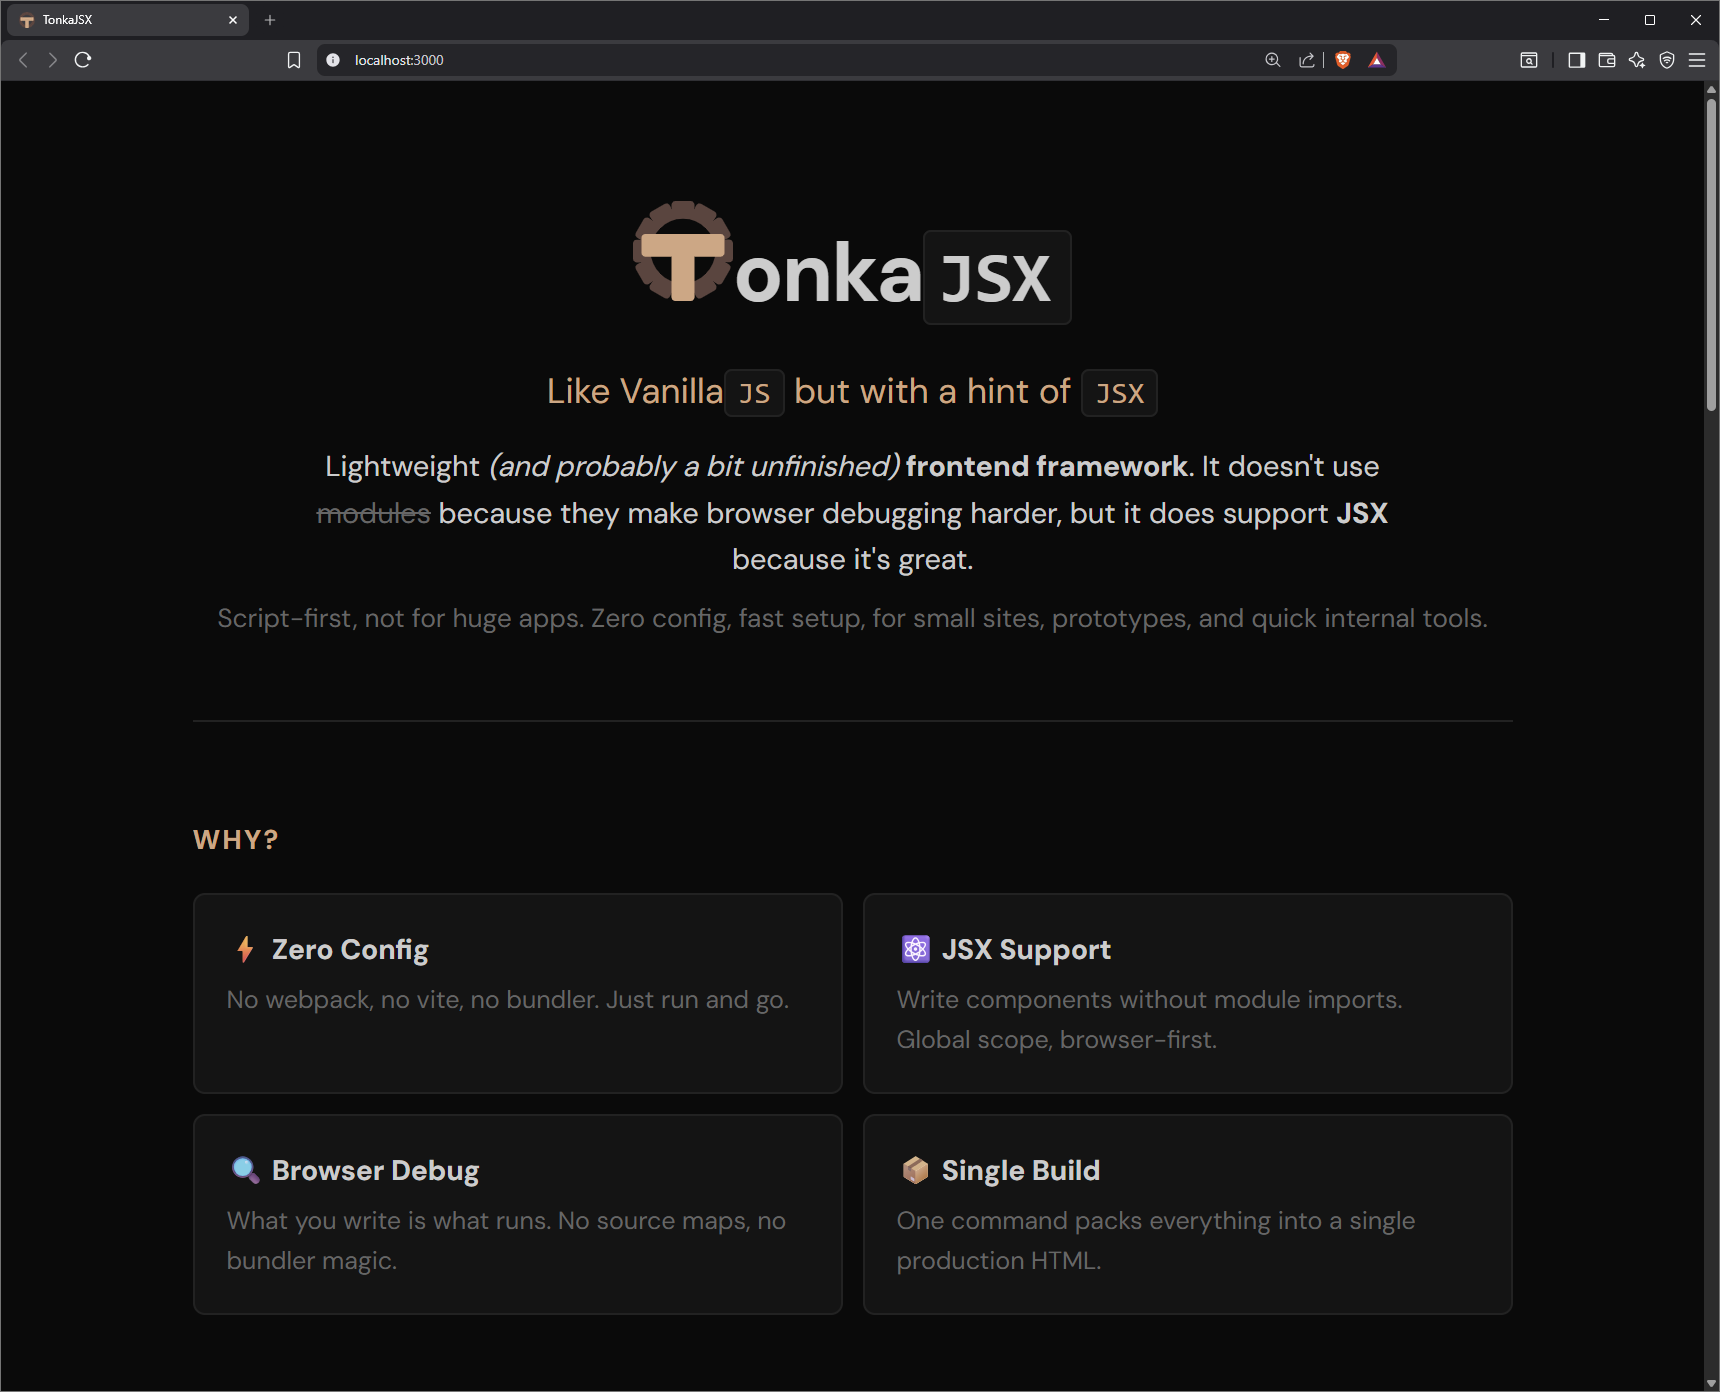
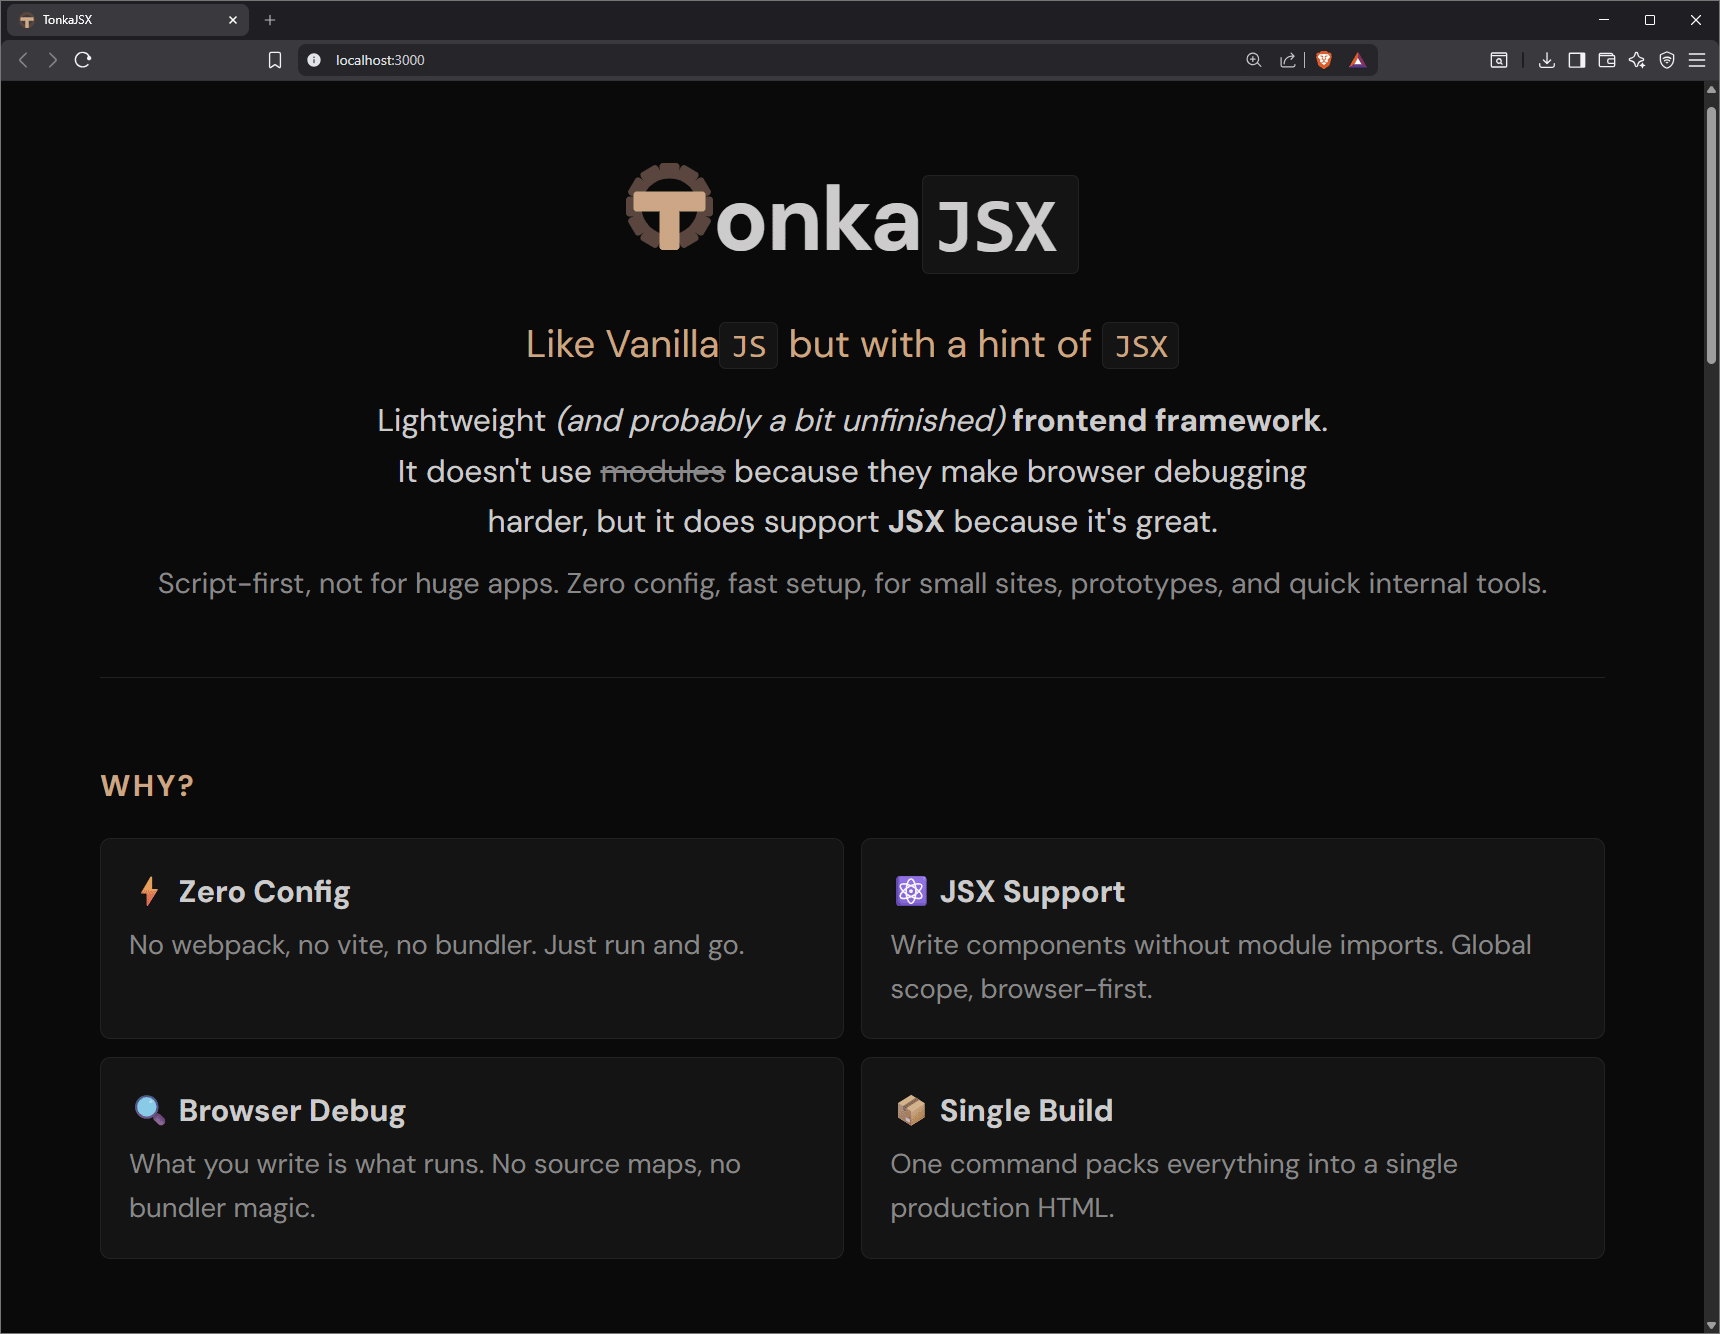
vars app.ini

diff --git a/build.js b/build.js
@@ -2,7 +2,7 @@ import fs from "fs"
 import path from "path"
 import http from "http"
 import https from "https"
-import { PATH, readFile, fileList, COLOR } from "./utils.js"
+import { PATH, readFile, fileList, loadVars, replaceVars, COLOR } from "./utils.js"
 
 const ARGS = new Set(process.argv.slice(2))
 const INLINE_REMOTE = ARGS.has("--inline-remote") || ARGS.has("-i")
@@ -257,11 +257,14 @@ async function fetchMany(urls, label) {
 async function build()
 {
   Log.head(`Build ${COLOR.gray}${PATH}${COLOR.reset}`)
+  const vars = loadVars("build")
+  if(Object.keys(vars).length)
+    Log.ok(`Vars:${Object.keys(vars).length} (${Object.keys(vars).join(", ")})`)
   if(INLINE_REMOTE) Log.warn("--inline-remote enabled")
-  const indexPath = path.join(PATH, "main.html")
-  if(!fs.existsSync(indexPath)) throw new Error("main.html not found in PATH")
+  const indexPath = path.join(PATH, "app.html")
+  if(!fs.existsSync(indexPath)) throw new Error("app.html not found in PATH")
   let html = readFile(indexPath)
-  if(html == null) throw new Error("main.html read failed")
+  if(html == null) throw new Error("app.html read failed")
   const r = removeBabelTags(html)
   html = r.html
   if(r.removed.length) {
@@ -293,6 +296,7 @@ async function build()
   }).join("\n") : ""
   let cssBundle = [remoteCss, cssBundleLocal].filter(Boolean).join("\n")
   if(cssBundle) {
+    cssBundle = replaceVars(cssBundle, vars)
     const b0 = bytes(cssBundle)
     cssBundle = await minifyCssSmart(cssBundle)
     Log.ok(`CSS min: ${b0} → ${bytes(cssBundle)}`)
@@ -344,10 +348,11 @@ async function build()
   }).join("\n;\n") : ""
   const rawJS = [String(remoteJs || "").trimEnd(), localJS].filter(Boolean).join("\n;\n")
   let jsBundle = ""
-  if(rawJS){
+  if(rawJS) {
+    const src = replaceVars(rawJS, vars)
     const { transformSync, jsxPlugin } = await loadBabel()
     Log.ok("Babel: JSX → JS")
-    const out = transformSync(rawJS, { babelrc: false, configFile: false, sourceType: "unambiguous", comments: false, plugins: [[jsxPlugin, { pragma: "JSX.createElement", pragmaFrag: "JSX.createFragment", throwIfNamespace: false }]] })
+    const out = transformSync(src, { babelrc: false, configFile: false, sourceType: "unambiguous", comments: false, plugins: [[jsxPlugin, { pragma: "JSX.createElement", pragmaFrag: "JSX.createFragment", throwIfNamespace: false }]] })
     jsBundle = out?.code || ""
     if(jsBundle){
       const b0 = bytes(jsBundle)
@@ -373,6 +378,7 @@ async function build()
     html = next
     Log.ok("Injected <script> JS")
   }
+  html = replaceVars(html, vars)
   const outPath = path.join(PATH, "index.html")
   fs.writeFileSync(outPath, html, "utf8")
   Log.ok(`Wrote ${COLOR.gray}${outPath}${COLOR.reset}`)

diff --git a/demo/scripts/Usage.jsx b/demo/scripts/Usage.jsx
@@ -1,17 +1,33 @@
-const Usage = () => (
-  <Section title="Usage">
-    <p class="subdesc">Start demo/project with <code>tonka serve</code> and build deploy version with <code>tonka build</code></p>
-    <div class="code-block">
-      <code>$ tonka serve [&lt;project&gt;] [--port|-p &lt;port&gt;]</code>
-      <code>$ tonka build [&lt;project&gt;] [--inline-remote|-i]</code>
-    </div>
-    <ul>
-      <li>Server and build work on the chosen project. Skip the name and it picks the first one.</li>
-      <li>If built, <code>index.html</code> exists and the server serves it.</li>
-      <li>Otherwise the server uses <code>main.html</code> and injects styles from <code>styles/</code> and scripts from <code>scripts/</code>.</li>
-      <li>Script order: <code>.js</code> first, then <code>.jsx</code>. Deeper folders load before parents.</li>
-      <li>All other files are served as static assets.</li>
-      <li>Use <code>--inline-remote</code> to embed CDN resources for offline use.</li>
-    </ul>
-  </Section>
-);
+const EXAMPLE_INI = `title = TonkaJSX
+accent = #d8a57f
+[serve]
+foot = Serve
+[build]
+foot = Build
+`
+
+const Usage = () => {
+  const el = (
+    <Section title="Usage">
+      <p class="subdesc">Start demo/project with <code>tonka serve</code> and build deploy version with <code>tonka build</code></p>
+      <div class="code-block">
+        <code>$ tonka serve [&lt;project&gt;] [--port|-p &lt;port&gt;]</code>
+        <code>$ tonka build [&lt;project&gt;] [--inline-remote|-i]</code>
+      </div>
+      <ul>
+        <li>Server and build work on the chosen project. Skip the name and it picks the first one.</li>
+        <li>If the project contains <code>app.ini</code>, variables are replaced in JS/JSX/CSS/HTML using double-brace syntax. Top-level values are shared; <code>[serve]</code> and <code>[build]</code> sections override per mode.</li>
+      </ul>
+      <pre class="code-block"><code class="language-ini">{EXAMPLE_INI}</code></pre>
+      <ul>
+        <li>If built, <code>index.html</code> exists and the server serves it.</li>
+        <li>Otherwise the server uses <code>app.html</code> and injects styles from <code>styles/</code> and scripts from <code>scripts/</code>.</li>
+        <li>Script order: <code>.js</code> first, then <code>.jsx</code>. Deeper folders load before parents.</li>
+        <li>All other files are served as static assets.</li>
+        <li>Use <code>--inline-remote</code> to embed CDN resources for offline use.</li>
+      </ul>
+    </Section>
+  );
+  JSX.onMount(el, () => Prism.highlightAll());
+  return el;
+};

diff --git a/serve.js b/serve.js
@@ -1,7 +1,9 @@
 import http from "http"
 import fs from "fs"
 import path from "path"
-import { PATH, readFile, fileList, getPort, COLOR } from "./utils.js"
+import { PATH, readFile, fileList, getPort, loadVars, replaceVars, COLOR } from "./utils.js"
+
+const vars = loadVars("serve")
 
 const mimeTypes = {
   ".html": "text/html; charset=utf-8",
@@ -87,10 +89,11 @@ const injectLinks = (html) => {
 const getIndex = (res) => {
   let html = readFile("index.html");
   if(!html) {
-    html = readFile("main.html");
+    html = readFile("app.html");
     if(!html) return false;
     html = injectLinks(html)
   }
+  html = replaceVars(html, vars)
   res.writeHead(200, {
     "Content-Type": mimeTypes[".html"],
     "Cache-Control": "no-store"
@@ -98,6 +101,8 @@ const getIndex = (res) => {
   res.end(html)
   return true
 }
+
+const TEXT_EXTS = new Set([".html", ".htm", ".css", ".js", ".jsx"])
 
 const server = http.createServer((req, res) => {
   const start = Date.now()
@@ -126,12 +131,15 @@ const server = http.createServer((req, res) => {
       logRequest(req,res,start)
       return
     }
-    const ext=path.extname(filePath).toLowerCase()
+    const ext = path.extname(filePath).toLowerCase()
     let mime = mimeTypes[ext] || "application/octet-stream"
     let body = data
-    if(ext === ".jsx") {
-      const src = data.toString("utf8")
-      body = Buffer.from(`/** @jsx JSX.createElement */\n/** @jsxFrag JSX.createFragment */\n\n${src}`)
+    if(TEXT_EXTS.has(ext)) {
+      let src = data.toString("utf8")
+      src = replaceVars(src, vars)
+      if(ext === ".jsx")
+        src = `/** @jsx JSX.createElement */\n/** @jsxFrag JSX.createFragment */\n\n${src}`
+      body = Buffer.from(src)
     }
     res.writeHead(200,{
       "Content-Type": mime,

diff --git a/utils.js b/utils.js
@@ -132,3 +132,50 @@ export function fileList(dir, exts=[]) {
   for(const f of files) out.push(f)
   return out
 }
+
+const VARS_FILE = "app.ini"
+
+/**
+ * Parse app.ini — top-level vars merged with [section] overrides.
+ * Returns flat {key: string} map. Missing file → empty {}.
+ * @param {string} section "serve" | "build"
+ * @returns {Record<string, string>}
+ */
+export function loadVars(section) {
+  const raw = readFile(VARS_FILE)
+  if(!raw) return {}
+  const vars = {}
+  let current = null
+  for(const line of raw.split(/\r?\n/)) {
+    const t = line.trim()
+    if(!t || t[0] === ";" || t[0] === "#") continue
+    const sm = t.match(/^\[(.+?)\]$/)
+    if(sm) { current = sm[1].trim().toLowerCase(); continue }
+    const eq = t.indexOf("=")
+    if(eq < 0) continue
+    const k = t.slice(0, eq).trim()
+    let v = t.slice(eq + 1).trim()
+    if((v[0] === '"' && v.at(-1) === '"') || (v[0] === "'" && v.at(-1) === "'"))
+      v = v.slice(1, -1)
+    if(!k) continue
+    if(current === null || current === section?.toLowerCase())
+      vars[k] = v
+  }
+  return vars
+}
+
+/**
+ * Replace `{{key}}` placeholders in content.
+ * Undefined keys → warning + empty string.
+ * @param {string} content
+ * @param {Record<string, string>} vars
+ * @returns {string}
+ */
+export function replaceVars(content, vars) {
+  if(!content) return content
+  return content.replace(/\{\{(\w+)\}\}/g, (m, k) => {
+    if(k in vars) return vars[k]
+    console.warn(`[vars] undefined: {{${k}}}`)
+    return ""
+  })
+}

diff --git a/demo/scripts/Structure.jsx b/demo/scripts/Structure.jsx
@@ -36,12 +36,13 @@ const Structure = () => (
     <div class="tree">
       <T pre="├─" name="tonka.js" note="CLI entry: tonka serve / tonka build" cls="accent" />
       <T pre="├─" name="build.js" note="packs project into production index.html" />
-      <T pre="├─" name="serve.js" note="dev server; serves index.html or main.html + injected links" />
+      <T pre="├─" name="serve.js" note="dev server; serves index.html or app.html + injected links" />
       <T pre="├─" name="utils.js" note="shared helpers for build.js + serve.js" />
       <T pre="├─" name="package.json" note="npm config + bin for CLI" />
       <Folder pre="└─" name="<project>/" note="one of many projects inside workspace" open={true}>
-        <T pre="   ├─" name="main.html" note="required entry for dev" cls="accent" />
-        <T pre="   ├─" name="main.jsx" note="optional main file referenced by main.html" />
+        <T pre="   ├─" name="app.html" note="required entry for dev" cls="accent" />
+        <T pre="   ├─" name="app.jsx" note="optional main file referenced by app.html" />
+        <T pre="   ├─" name="app.ini" note="optional; variables for serve/build" />
         <T pre="   ├─" name="index.html" note="generated by build; often missing in dev" cls="dim" />
         <Folder pre="   ├─" name="scripts/" note="all JS/JSX source files">
           <T pre="   │  ├─" name="**/*.js" note=".js loaded first" cls="dim" />

diff --git a/demo/app.html b/demo/app.html
@@ -3,15 +3,16 @@
   <head>
     <meta charset="UTF-8">
     <meta name="viewport" content="width=device-width, initial-scale=1.0">
-    <title>TonkaJSX</title>
+    <title>{{title}}</title>
     <link rel="icon" type="image/svg+xml" href="tonka.svg">
     <script src="//unpkg.com/@babel/standalone/babel.min.js"></script>
     <script src="https://cdnjs.cloudflare.com/ajax/libs/prism/1.29.0/prism.min.js"></script>
     <script src="https://cdnjs.cloudflare.com/ajax/libs/prism/1.29.0/components/prism-jsx.min.js"></script>
+    <script src="https://cdnjs.cloudflare.com/ajax/libs/prism/1.29.0/components/prism-ini.min.js"></script>
     <link href="https://cdnjs.cloudflare.com/ajax/libs/prism/1.29.0/themes/prism-tomorrow.min.css" rel="stylesheet">
     <link href="https://fonts.googleapis.com/css2?family=DM+Sans:wght@400;700" rel="stylesheet">
   </head>
   <body>
-    <script type="text/babel" src="main.jsx"></script>
+    <script type="text/babel" src="app.jsx"></script>
   </body>
 </html>

diff --git a/demo/styles/main.css b/demo/styles/main.css
@@ -1,13 +1,14 @@
 * { margin: 0; padding: 0; box-sizing: border-box; }
 
 :root {
+  font-size: 20px;
   --bg: #0a0a0a;
   --fg: #ccc;
-  --dim: #666;
+  --dim: #888;
   --muted: #444;
-  --acc: #d8a57f;
   --srf: #141414;
   --brd: #222;
+  --acc: {{accent}};
 }
 
 body {
@@ -18,7 +19,7 @@ body {
 }
 
 .app {
-  max-width: 700px;
+  max-width: 900px;
   margin: 0 auto;
   padding: 60px 20px 40px;
 }
@@ -48,5 +49,5 @@ code {
 .subdesc { color: var(--dim); font-size: 0.82rem; }
 
 ul { margin-top: 14px; padding-left: 20px; list-style: disc; }
-li { font-size: 0.82rem; padding: 3px 0; color: var(--fg); }
+li { font-size: 0.82rem; padding: 3px 0; color: var(--dim); }
 li::marker { color: var(--acc); }

diff --git a/demo/scripts/Footer.jsx b/demo/scripts/Footer.jsx
@@ -12,7 +12,7 @@ const Footer = () => {
     <footer class="footer">
       <Item>© Xaeian <a class="footer-link" href="https://github.com/Xaeian">GitHub</a></Item>
       <Item>Like Vanilla but JSX</Item>
-      <Item>Built with<a class="footer-link" href="https://tonkajsx.dev">TonkaJSX</a></Item>
+      <Item>{{foot}} with<a class="footer-link" href="https://tonkajsx.dev">TonkaJSX</a></Item>
     </footer>
   );
 };

diff --git a/demo/styles/layout.css b/demo/styles/layout.css
@@ -6,7 +6,7 @@
 }
 .hero h1 { font-size: 2.6rem; letter-spacing: -0.02em; }
 .tagline { color: var(--acc); font-size: 1.1rem; margin: 12px 0; }
-.desc { font-size: 0.9rem; max-width: 540px; margin: 0 auto 8px; }
+.desc { font-size: 0.9rem; max-width: 555px; margin: 0 auto 8px; }
 .desc s { color: var(--dim); }
 
 .footer {

diff --git a/demo/styles/comp.css b/demo/styles/comp.css
@@ -61,3 +61,9 @@ th { color: var(--dim); font-size: 0.7rem; text-transform: uppercase; letter-spa
 @media (max-width: 500px) {
   .cards { grid-template-columns: 1fr; }
 }
+
+.code-block,
+.code-block code[class*="language-"],
+.code-block[class*="language-"] {
+  background: var(--srf);
+}

diff --git a/demo/scripts/Example.jsx b/demo/scripts/Example.jsx
@@ -19,6 +19,6 @@ const Example = () => {
       <pre class="code-block"><code class="language-jsx">{EXAMPLE_CODE}</code></pre>
     </Section>
   );
-  setTimeout(() => Prism.highlightAll(), 0);
+  JSX.onMount(el, () => Prism.highlightAll());
   return el;
 };
